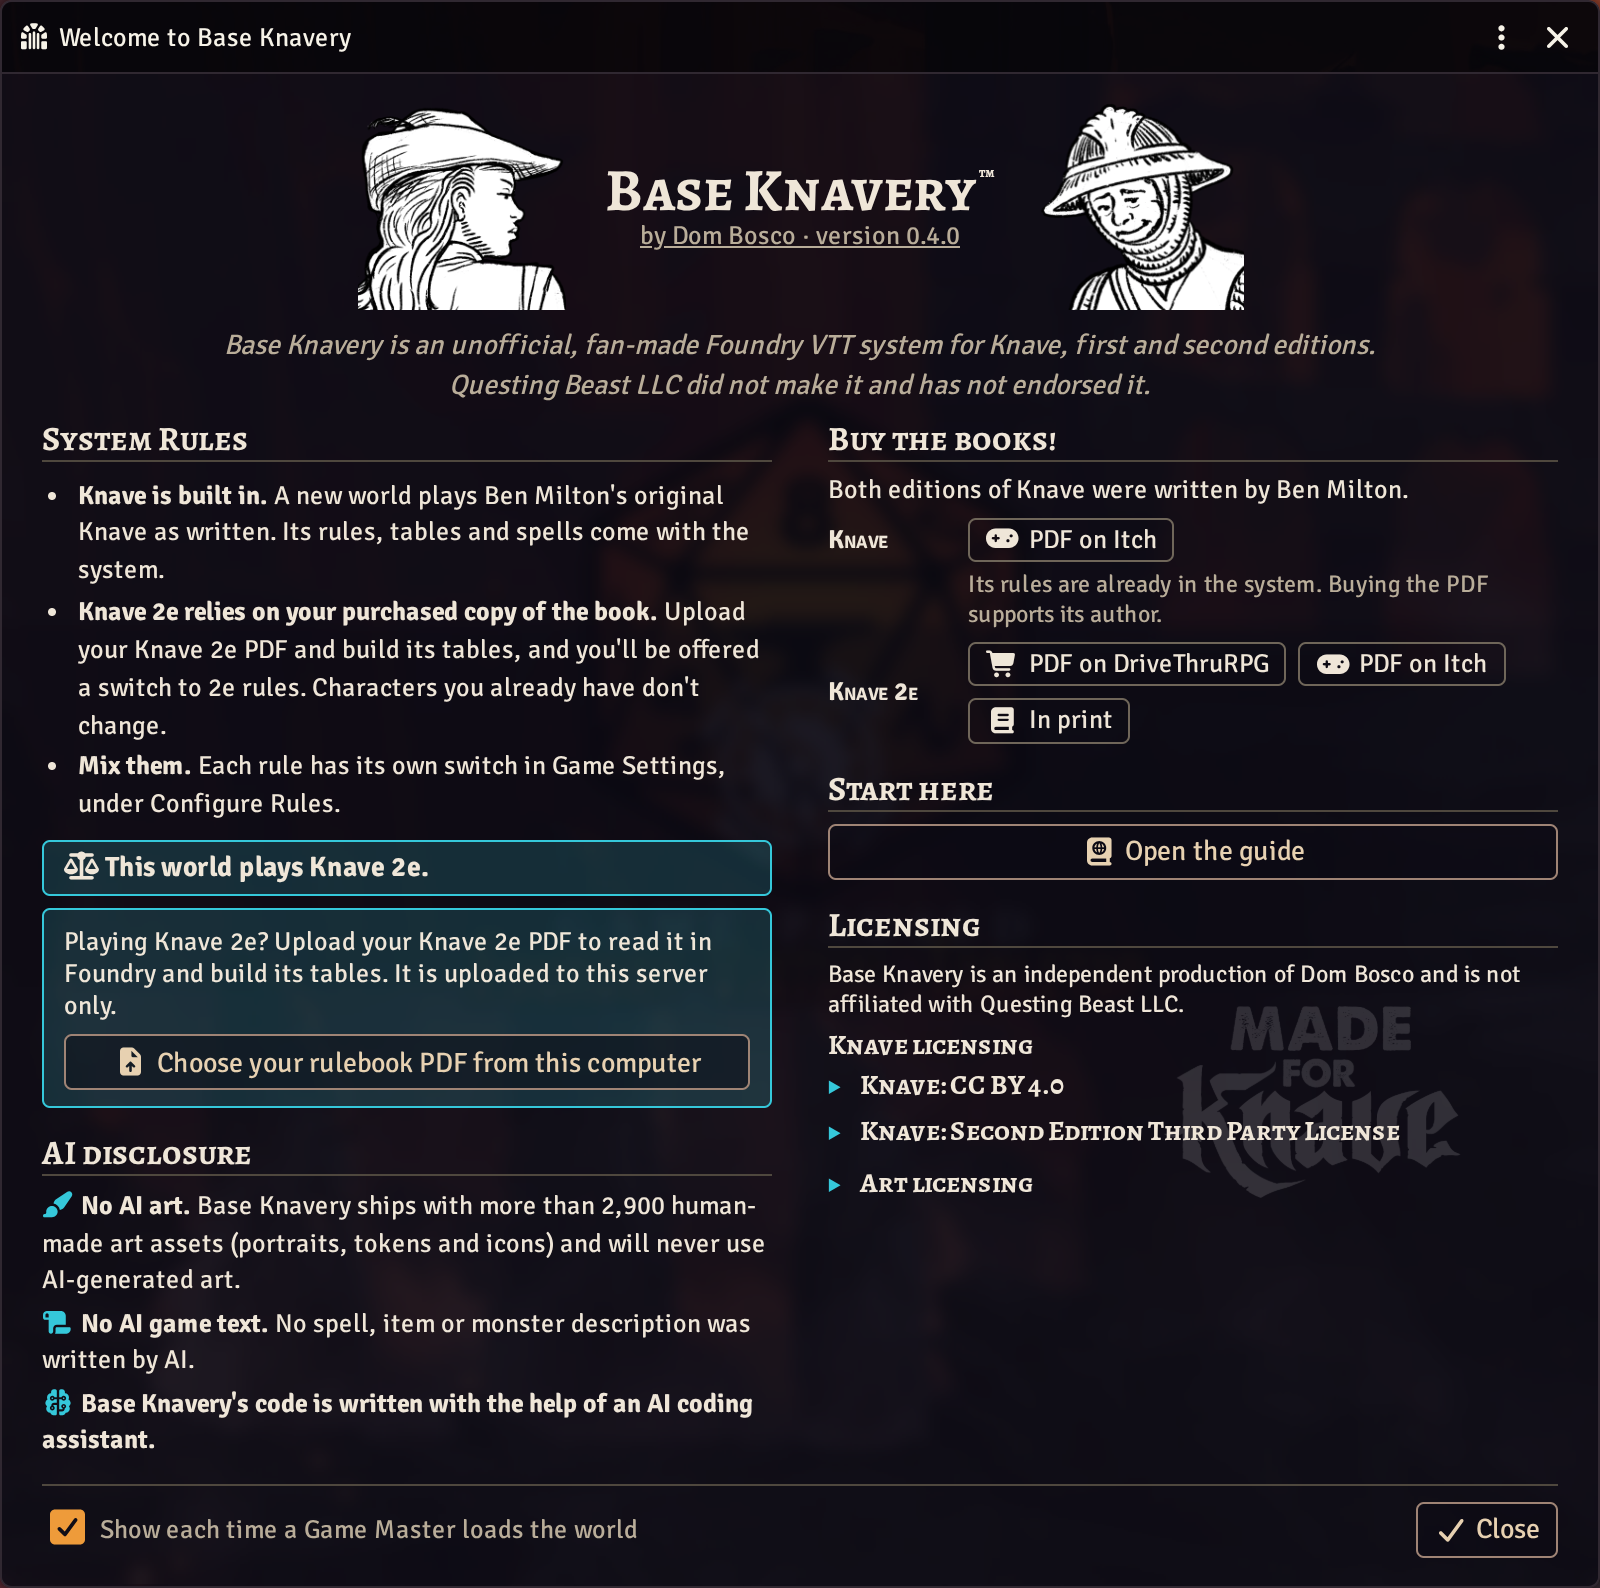
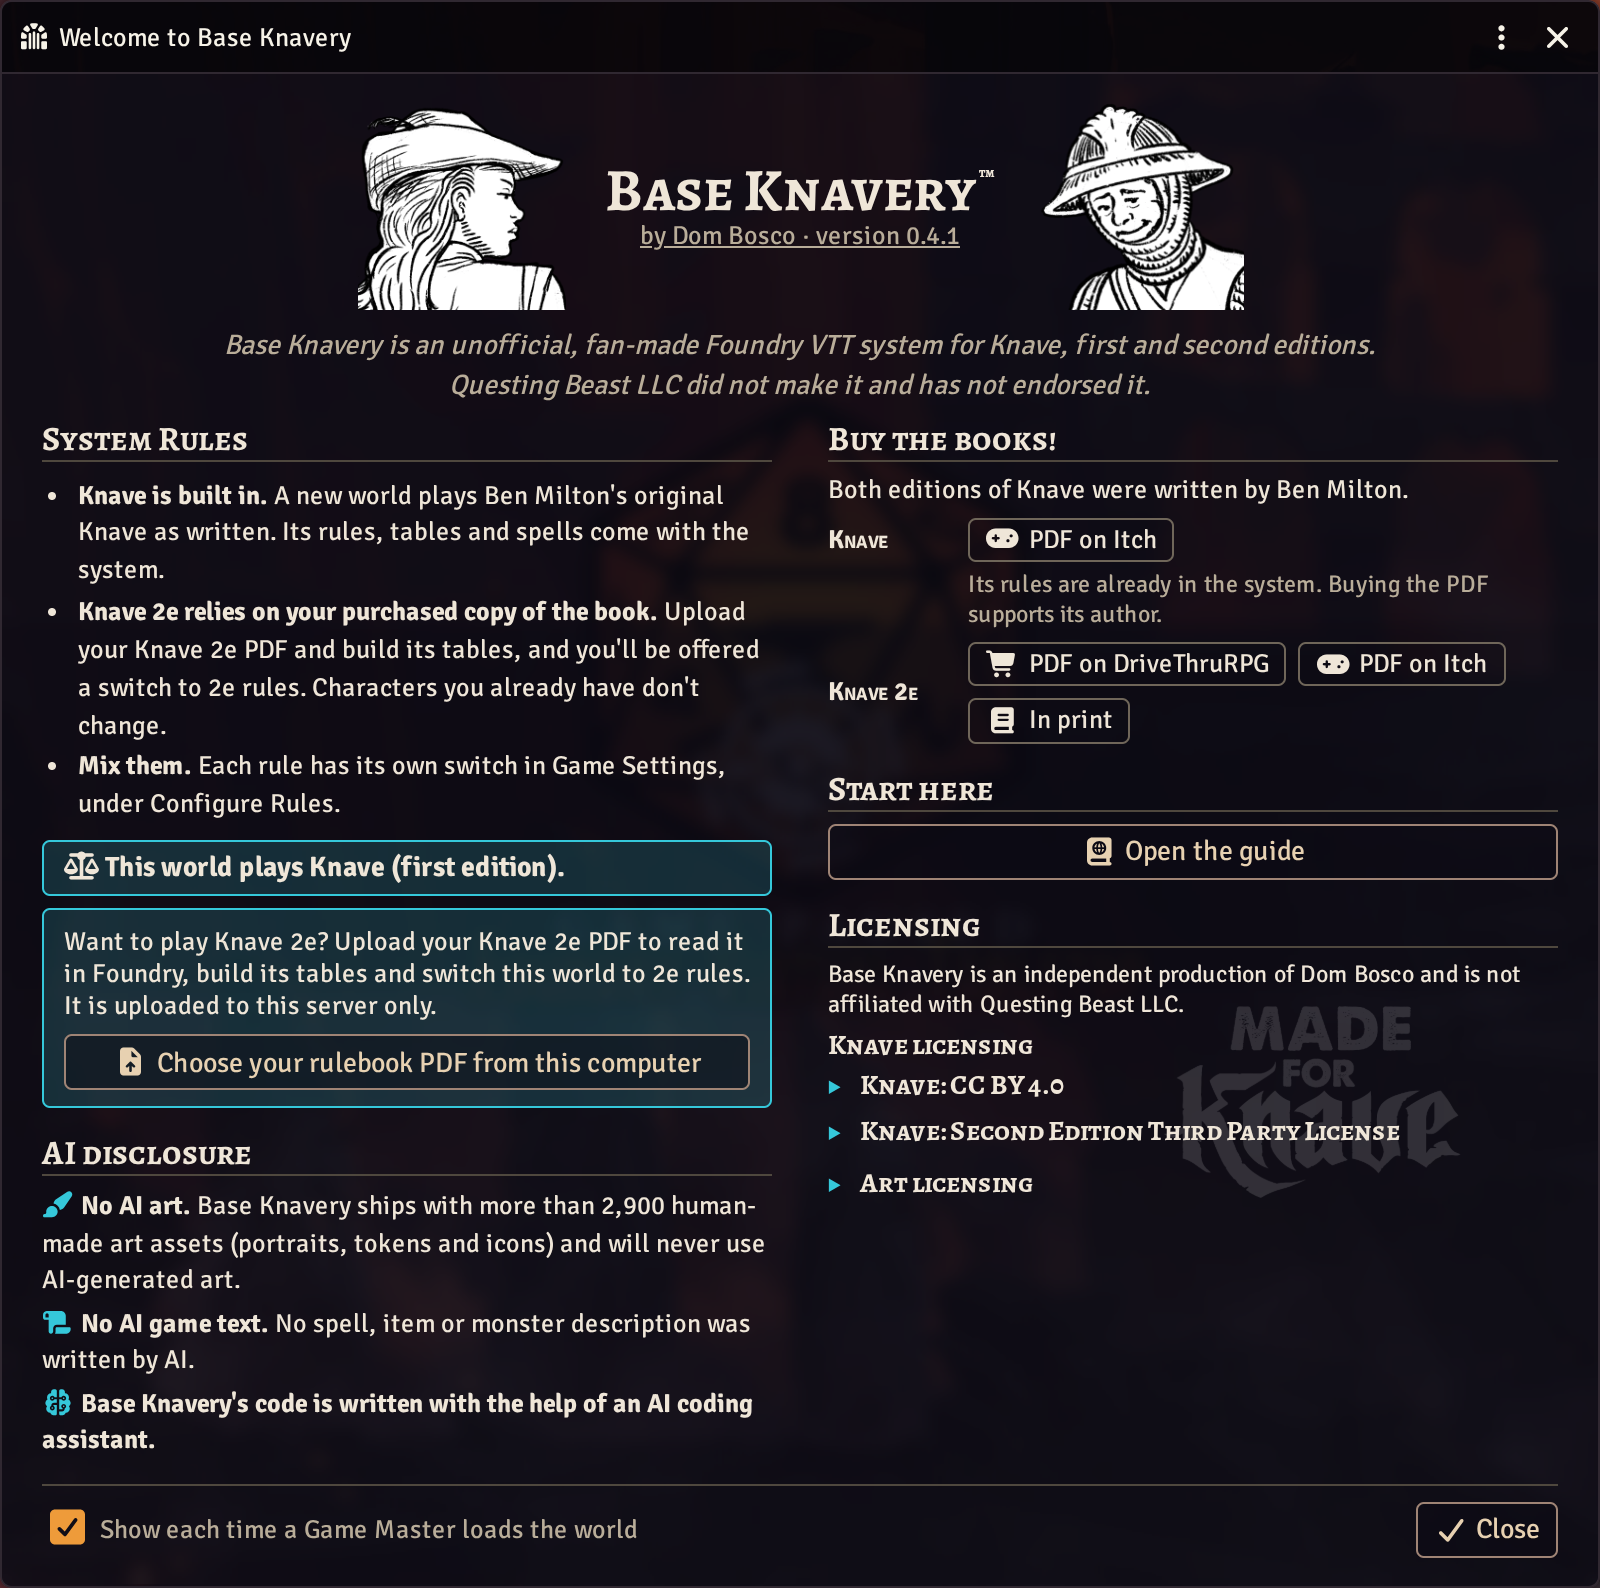
docs/listing/welcome.png: a Knave 1e world with the 2e upload box (same name, so the Foundry listing keeps its link); CHANGELOG: 0.4.2

Changed region(s): [[0.0312, 0.5863, 0.4688, 0.648], [0.25, 0.5246, 0.3438, 0.5554]]

diff --git a/CHANGELOG.md b/CHANGELOG.md
@@ -1,5 +1,11 @@
 # Changelog
 
+## 0.4.2
+
+- The welcome window says which edition a world plays more plainly: "This world plays Knave (first edition)."
+  In a Knave 1e world, the box for the rulebook PDF now says that uploading your Knave 2e PDF builds its tables
+  and switches the world to 2e rules.
+
 ## 0.4.1
 
 - Fixed: on Foundry 14.365 to 14.369, every world launch logged a migration error for each compendium entry
